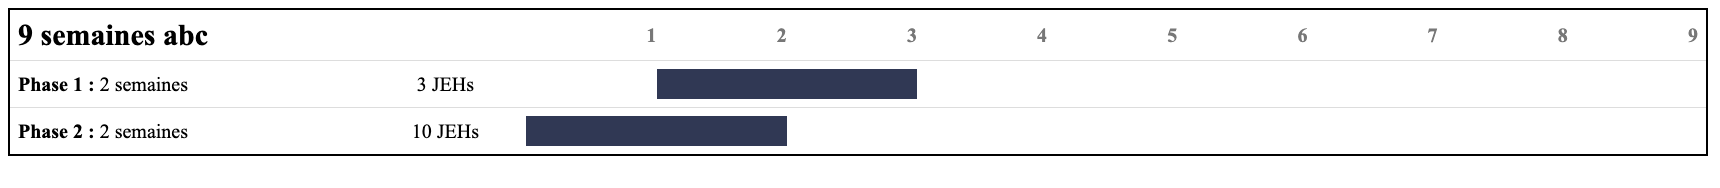
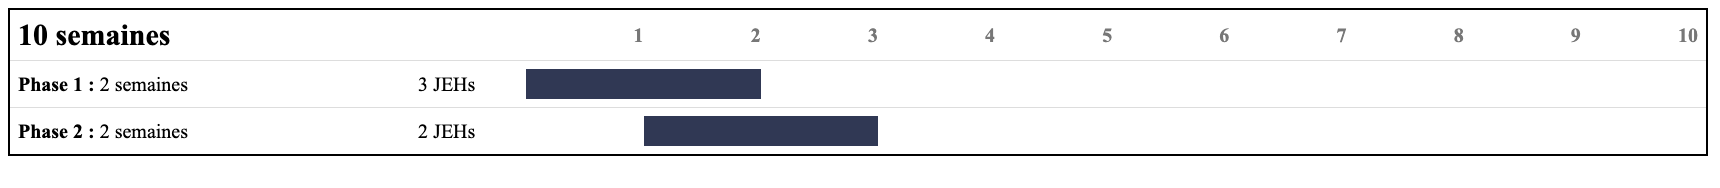
retour en arriere pour le planning image sur les documents : version en ligne

diff --git a/Logiciel_PEP/mysite/polls/views.py b/Logiciel_PEP/mysite/polls/views.py
@@ -3169,7 +3169,7 @@ def editer_convention(request, iD):
                     semaine_s=semaine_s,
                 )
 
-                """output_dir = "polls/static/polls/img"
+                output_dir = "polls/static/polls/img"
                 os.makedirs(output_dir, exist_ok=True)
                 os.chdir(output_dir)
                 filename = "tab_planning.png"
@@ -3187,9 +3187,9 @@ def editer_convention(request, iD):
 
                 image_stream = BytesIO(image_data)
                 image = InlineImage(template, image_stream, width=Mm(173))
-                time1.sleep(1)"""
+                time1.sleep(1)
 
-                output_dir = os.path.join(conf_settings.BASE_DIR, "polls/static/polls/img")
+                """output_dir = os.path.join(conf_settings.BASE_DIR, "polls/static/polls/img")
     
                 os.makedirs(output_dir, exist_ok=True)
 
@@ -3214,7 +3214,7 @@ def editer_convention(request, iD):
                 # Save the instance to persist the change
                 instance.save()
 
-                image = InlineImage(template, instance.planning_image, width=Mm(173))
+                image = InlineImage(template, instance.planning_image, width=Mm(173))"""
 
 
 
@@ -4278,7 +4278,7 @@ def editer_devis(request, iD):
                 semaine_s=semaine_s,
             )
             
-            """output_dir = "polls/static/polls/img"
+            output_dir = "polls/static/polls/img"
             os.makedirs(output_dir, exist_ok=True)
             os.chdir(output_dir)
             filename = "tab_planning.png"
@@ -4296,9 +4296,10 @@ def editer_devis(request, iD):
             image = InlineImage(template, image_stream, width=Mm(173))
             time1.sleep(1)
 
-            /Users/antonyfeord/SYLOG_29_09/PROJET_TDLOG/Logiciel_PEP/mysite/tab_planning1.png
-            """
-            output_dir = os.path.join(conf_settings.BASE_DIR, "polls/static/polls/img")
+            
+
+
+            """output_dir = os.path.join(conf_settings.BASE_DIR, "polls/static/polls/img")
     
             os.makedirs(output_dir, exist_ok=True)
 
@@ -4323,7 +4324,7 @@ def editer_devis(request, iD):
             # Save the instance to persist the change
             instance.save()
 
-            image = InlineImage(template, instance.planning_image, width=Mm(173))
+            image = InlineImage(template, instance.planning_image, width=Mm(173))"""
 
 
 
